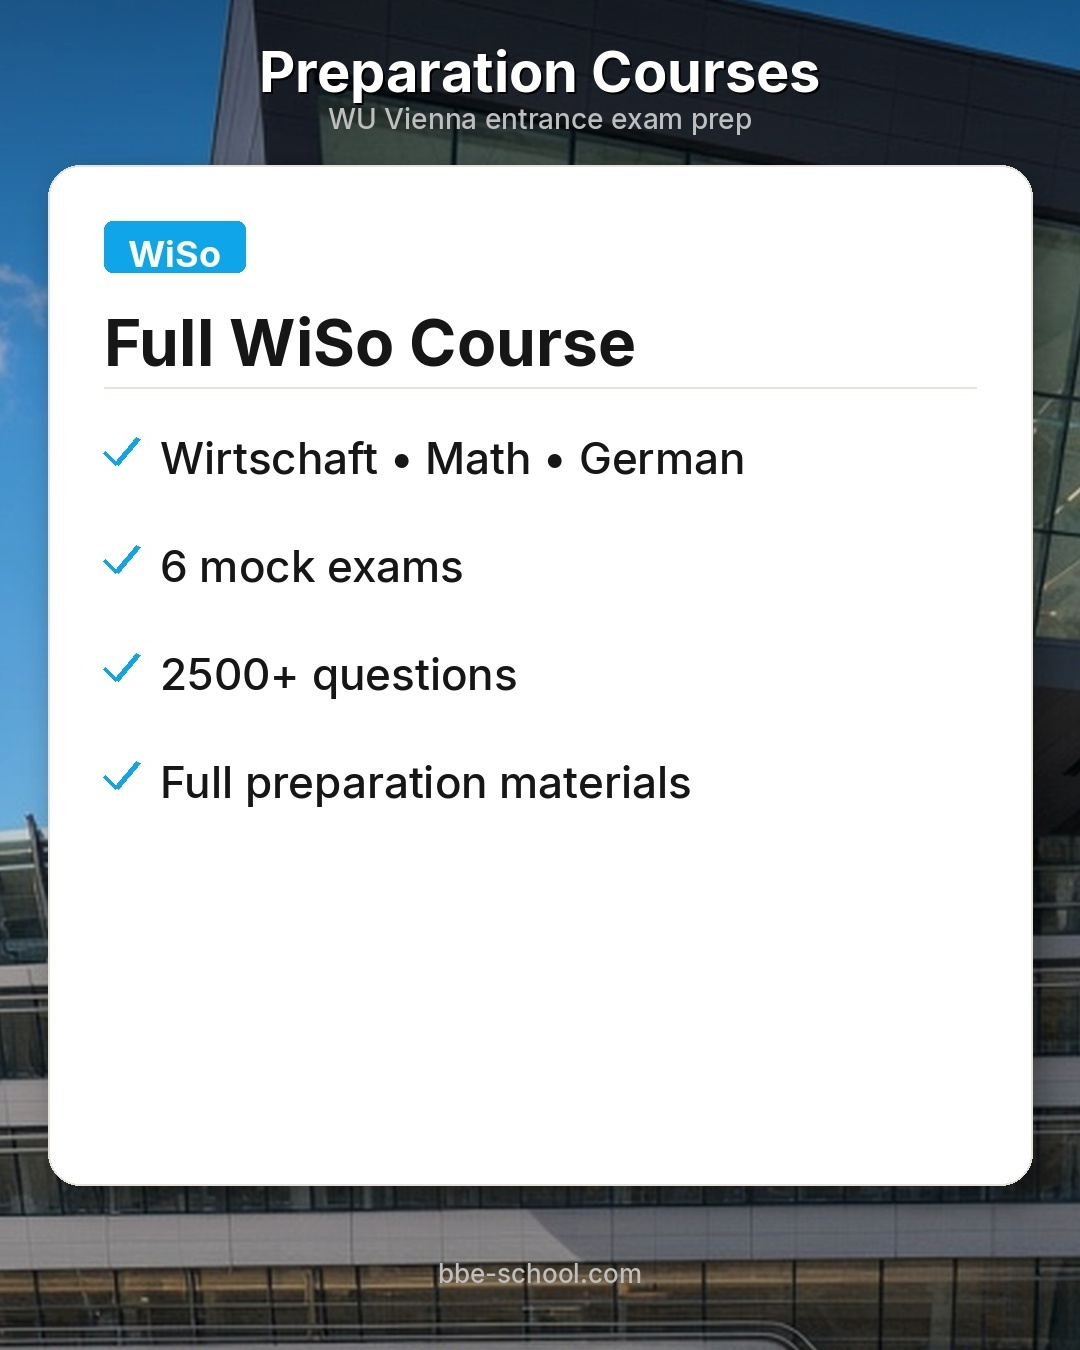
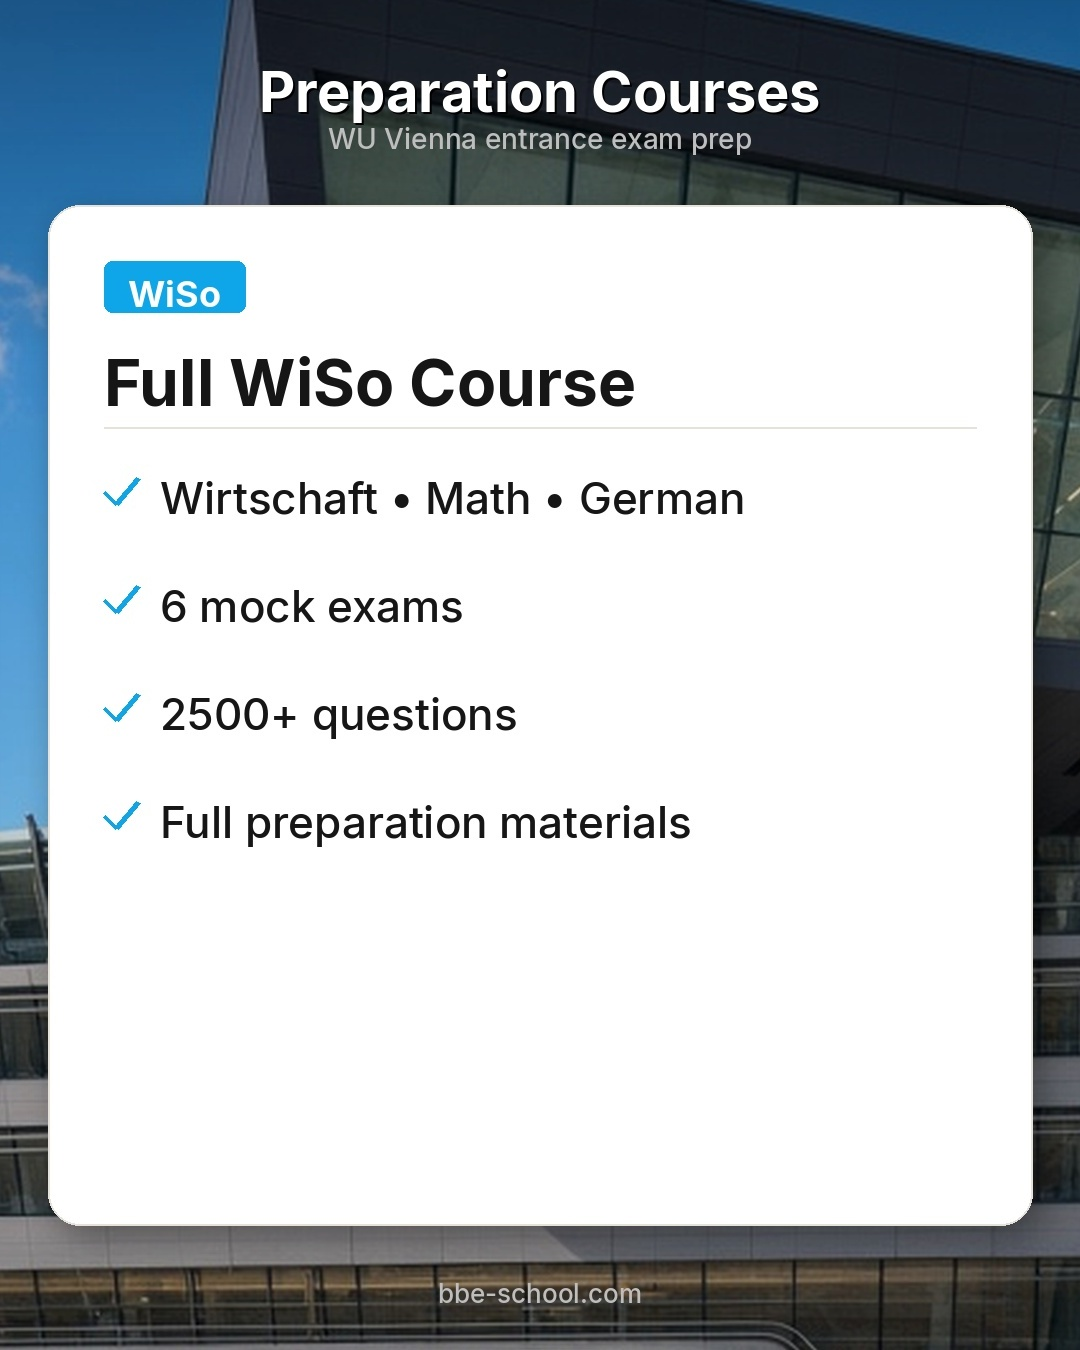
Optically center cards under header; WiSo sky blue.

Changed region(s): [[0.0306, 0.0311, 0.9778, 0.6222], [0.0306, 0.8711, 0.9778, 0.9644], [0.0917, 0.4978, 0.1222, 0.5289]]

diff --git a/scripts/make_instagram_pinned_banner.py b/scripts/make_instagram_pinned_banner.py
@@ -30,13 +30,17 @@ TEAL = (46, 140, 130)
 WHITE = (255, 255, 255)
 
 # Layout system (each Instagram tile = 1080×1350)
-# Cards centered in the frame: equal top & bottom margins
+# Header sits in a fixed top band; cards are optically centered in the
+# remaining space (equal gap under header and above footer).
 MARGIN_X = 48
 CARD_W = TILE_W - 2 * MARGIN_X  # 984
+HEADER_BAND = 128  # title + subtitle zone
+FOOTER_BAND = 48
 CARD_H = 1020
-MARGIN_V = (TILE_H - CARD_H) // 2  # 165 — same above and below
-MARGIN_TOP = MARGIN_V
-MARGIN_BOTTOM = TILE_H - MARGIN_TOP - CARD_H  # keep exact
+_free = TILE_H - HEADER_BAND - FOOTER_BAND - CARD_H  # space to split
+GAP_AROUND = _free // 2
+MARGIN_TOP = HEADER_BAND + GAP_AROUND
+MARGIN_BOTTOM = TILE_H - MARGIN_TOP - CARD_H
 CARD_PAD = 56  # inner padding
 GAP_TAG_TITLE = 32
 GAP_TITLE_RULE = 32
@@ -296,28 +300,26 @@ def build_banner(bg: Image.Image, *, glass_cards: bool = False) -> Image.Image:
             height=CARD_H,
         )
 
-    # Compact header sits in the top margin band (above the cards)
+    # Header centered inside HEADER_BAND
     title_f = font("Inter-Bold.ttf", 56)
     sub_f = font("Inter-Medium.ttf", 28)
     title = "Preparation Courses"
     tw, th = text_size(draw, title, title_f)
-    title_y = max(24, (MARGIN_TOP - th - 36) // 2)
-    draw.text(((W - tw) / 2 + 2, title_y + 2), title, font=title_f, fill=(0, 0, 0, 150))
-    draw.text(((W - tw) / 2, title_y), title, font=title_f, fill=WHITE)
-
     sub = "WU Vienna entrance exam prep"
     sw, sh = text_size(draw, sub, sub_f)
-    sub_y = title_y + th + 10
-    draw.text(((W - sw) / 2, sub_y), sub, font=sub_f, fill=MUTED_LT)
+    block_h = th + 10 + sh
+    title_y = max(16, (HEADER_BAND - block_h) // 2)
+    draw.text(((W - tw) / 2 + 2, title_y + 2), title, font=title_f, fill=(0, 0, 0, 150))
+    draw.text(((W - tw) / 2, title_y), title, font=title_f, fill=WHITE)
+    draw.text(((W - sw) / 2, title_y + th + 10), sub, font=sub_f, fill=MUTED_LT)
 
     logo_size = 72
-    draw_logo(draw, W - MARGIN_X - logo_size, 24, size=logo_size, light=True)
+    draw_logo(draw, W - MARGIN_X - logo_size, (HEADER_BAND - logo_size) // 2, size=logo_size, light=True)
 
     url_f = font("Inter-Medium.ttf", 26)
     url = "bbe-school.com"
     uw, uh = text_size(draw, url, url_f)
-    # Center URL in the equal bottom margin band
-    url_y = MARGIN_TOP + CARD_H + (MARGIN_BOTTOM - uh) // 2
+    url_y = MARGIN_TOP + CARD_H + (FOOTER_BAND - uh) // 2
     draw.text(((W - uw) / 2, url_y), url, font=url_f, fill=MUTED_LT)
     return canvas.convert("RGB")
 

diff --git a/scripts/make_instagram_wave_banner.py b/scripts/make_instagram_wave_banner.py
@@ -48,7 +48,7 @@ CARDS = [
     },
     {
         "tag": "WiSo",
-        "accent": PURPLE,
+        "accent": BLUE,
         "title": "Full WiSo Course",
         "bullets": [
             "Wirtschaft • Math • German",
